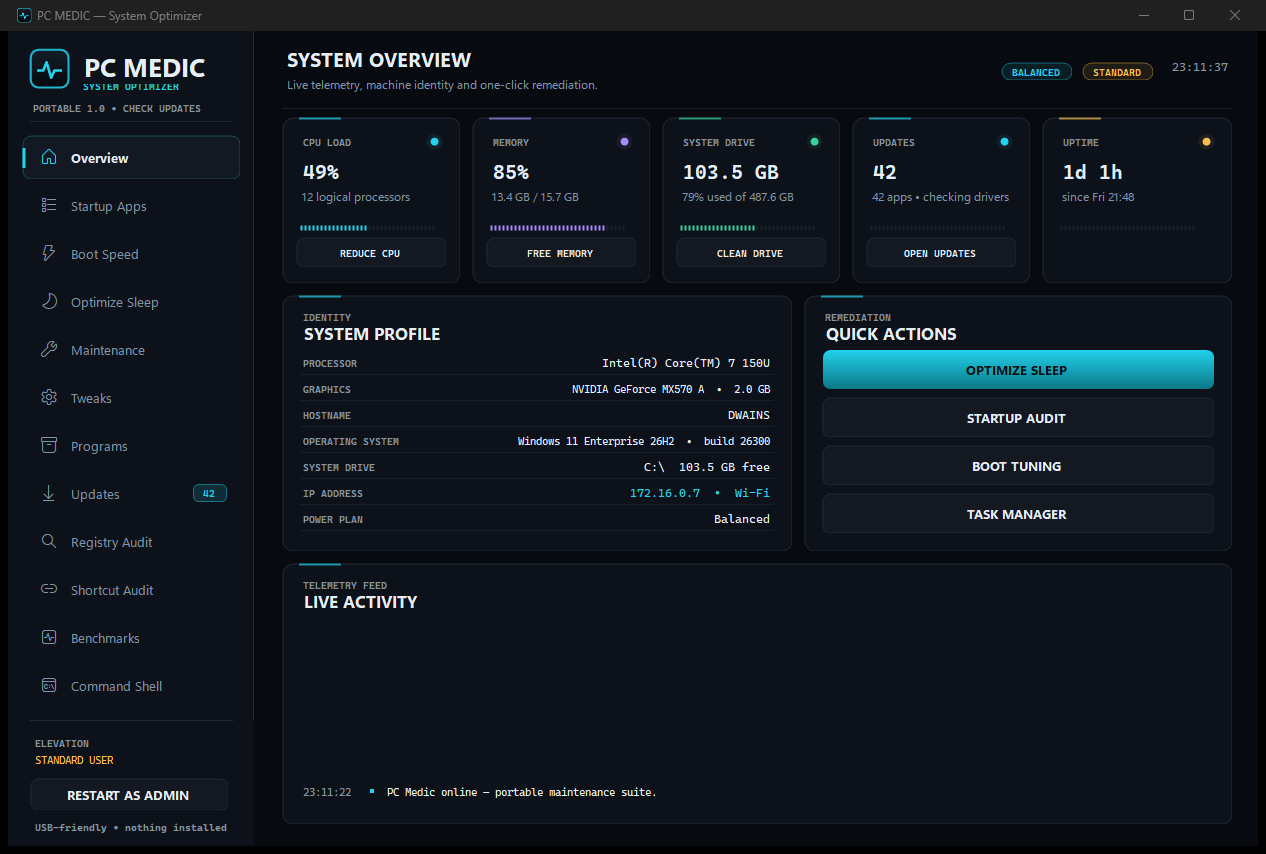
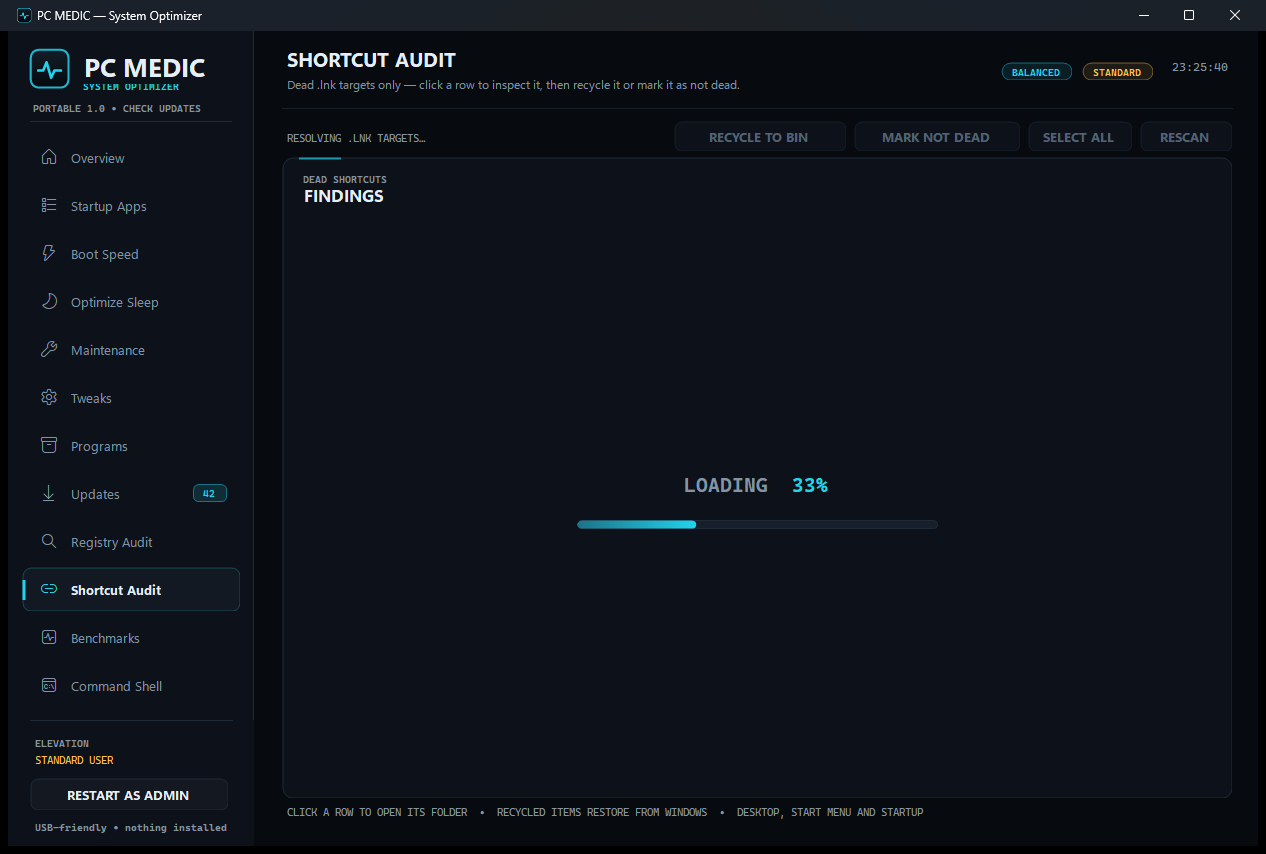
Refresh the README screenshot with the centred loading plate.
The hero image predated the scan overlay, so it now shows the Shortcut
Audit mid-pass with the LOADING percentage and bar filling the card.

diff --git a/README.md b/README.md
@@ -11,7 +11,7 @@ Companion project: **[Disk Defrag](https://github.com/DwainSnickles/disk-defrag)
 separate cluster-map defragmentation tool that lives beside PC Medic and launches from its
 Maintenance page.
 
-![PC Medic overview: live CPU, memory, disk, update and uptime tiles with one-click actions, machine profile and activity feed](docs/pc-medic.png)
+![PC Medic Shortcut Audit mid-scan: a centred LOADING 33% plate with a filling progress bar covers the findings card while the scan resolves links](docs/pc-medic.png)
 
 ## What it does
 
